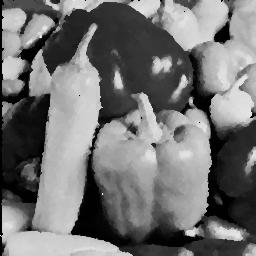
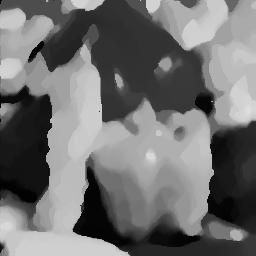
make filter for all n

diff --git a/src/main/java/AveragingFilter.java b/src/main/java/AveragingFilter.java
@@ -28,34 +28,54 @@ class AveragingFilter {
     }
 
     void filter() {
+        System.out.println("Filtering...");
+
         for (int i = 0; i < img.getWidth(); i++) {
             for (int j = 0; j < img.getHeight(); j++) {
-                Color[] subPixels = getSubPixels(i, j);
-                ColorProcessor processor = new ColorProcessor(subPixels);
+                Color[][] matrix = getSubMatrix(i, j);
+                ColorProcessor processor = new ColorProcessor(matrix);
                 img.setRGB(i, j, new Color(processor.getAverageRed(),
                         processor.getAverageBlue(), processor.getAverageGreen()).getRGB());
             }
         }
+
+        System.out.println("Filtering done!");
     }
 
-    private Color[] getSubPixels(int i, int j) {
-        Color[] subPixels = new Color[n * n];
-        int iMinus1 = i - 1 < 0 ? i + 1 : i - 1;
-        int jMinus1 = j - 1 < 0 ? j + 1 : j - 1;
-        int iPlus1 = i + 1 >= img.getWidth() ? i - 1 : i + 1;
-        int jPlus1 = j + 1 >= img.getHeight() ? j - 1 : j + 1;
+    private Color[][] getSubMatrix(int x, int y) {
+        Color[][] matrix = new Color[n][n];
 
-        subPixels[0] = new Color(img.getRGB(iMinus1, jMinus1));
-        subPixels[1] = new Color(img.getRGB(iMinus1, j));
-        subPixels[2] = new Color(img.getRGB(iMinus1, jPlus1));
-        subPixels[3] = new Color(img.getRGB(i, jPlus1));
-        subPixels[4] = new Color(img.getRGB(iPlus1, jPlus1));
-        subPixels[5] = new Color(img.getRGB(iPlus1, j));
-        subPixels[6] = new Color(img.getRGB(iPlus1, jMinus1));
-        subPixels[7] = new Color(img.getRGB(i, jMinus1));
-        subPixels[8] = new Color(img.getRGB(i, j));
+        for (int i = 0; i < n; i++)
+            for (int j = 0; j < n; j++)
+                matrix[i][j] = new Color(img.getRGB(getPosX(x, i), getPosY(y, j)));
 
-        return subPixels;
+        return matrix;
+    }
+
+    private int getPosX(int originX, int currentX) {
+        int centerPoint = n / 2;
+        int diffX = centerPoint - currentX;
+
+        if (originX - diffX < 0)
+            return originX + diffX;
+
+        if (originX - diffX >= img.getWidth())
+            return originX + diffX;
+
+        return originX - diffX;
+    }
+
+    private int getPosY(int originY, int currentY) {
+        int centerPoint = n / 2;
+        int diffY = centerPoint - currentY;
+
+        if (originY - diffY < 0)
+            return originY + diffY;
+
+        if (originY - diffY >= img.getHeight())
+            return originY + diffY;
+
+        return originY - diffY;
     }
 
     void writeImg(String output) {

diff --git a/src/main/java/ColorProcessor.java b/src/main/java/ColorProcessor.java
@@ -3,42 +3,45 @@ import java.util.Arrays;
 
 class ColorProcessor {
 
-    private final Color[] colors;
+    private final Color[][] colors;
 
-    ColorProcessor(Color[] colors) {
+    ColorProcessor(Color[][] colors) {
         this.colors = colors;
     }
 
     int getAverageRed() {
-        int[] R = new int[colors.length];
-        for (int i = 0; i < colors.length; i++) {
-            R[i] = colors[i].getRed();
-        }
+        int[] R = new int[colors.length * colors.length];
+        int indexR = 0;
+        for (Color[] color : colors)
+            for (Color aColor : color)
+                R[indexR++] = aColor.getRed();
 
         Arrays.sort(R);
 
-        return R[colors.length / 2];
+        return R[R.length / 2];
     }
 
     int getAverageBlue() {
-        int[] B = new int[colors.length];
-        for (int i = 0; i < colors.length; i++) {
-            B[i] = colors[i].getBlue();
-        }
+        int[] B = new int[colors.length * colors.length];
+        int indexR = 0;
+        for (Color[] color : colors)
+            for (Color aColor : color)
+                B[indexR++] = aColor.getBlue();
 
         Arrays.sort(B);
 
-        return B[colors.length / 2];
+        return B[B.length / 2];
     }
 
     int getAverageGreen() {
-        int[] G = new int[colors.length];
-        for (int i = 0; i < colors.length; i++) {
-            G[i] = colors[i].getGreen();
-        }
+        int[] G = new int[colors.length * colors.length];
+        int indexR = 0;
+        for (Color[] color : colors)
+            for (Color aColor : color)
+                G[indexR++] = aColor.getGreen();
 
         Arrays.sort(G);
 
-        return G[colors.length / 2];
+        return G[G.length / 2];
     }
 }
